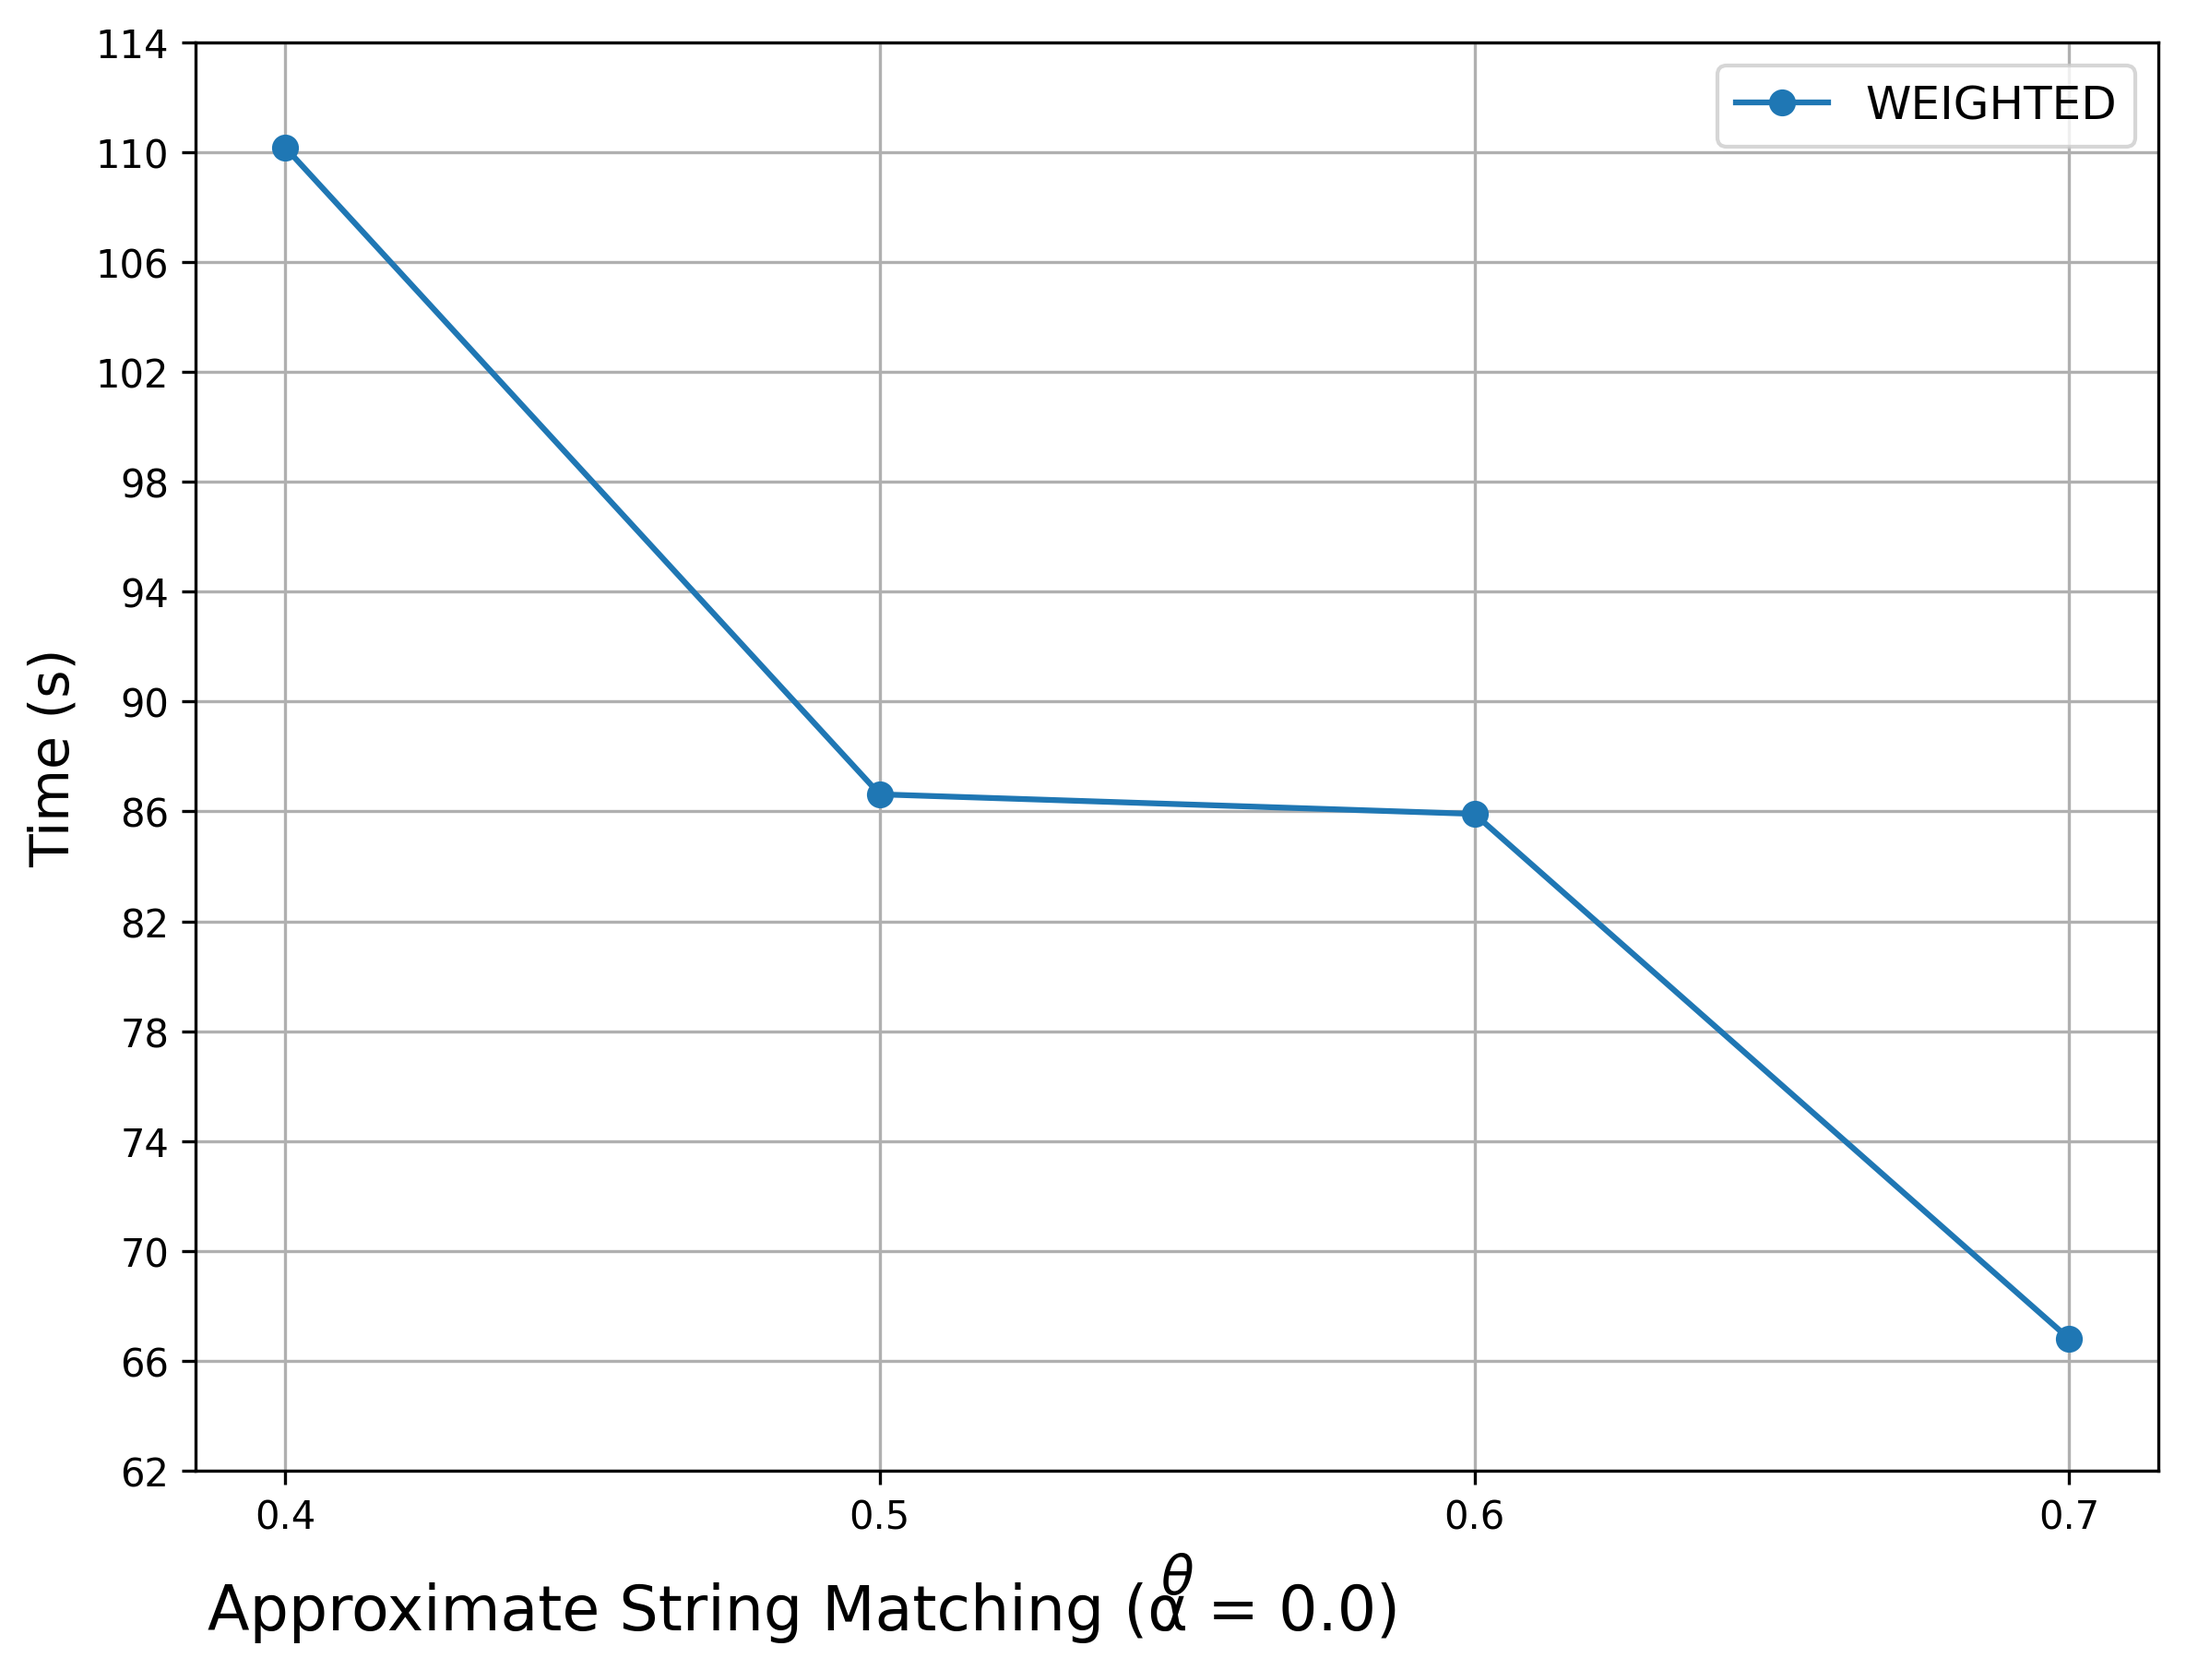
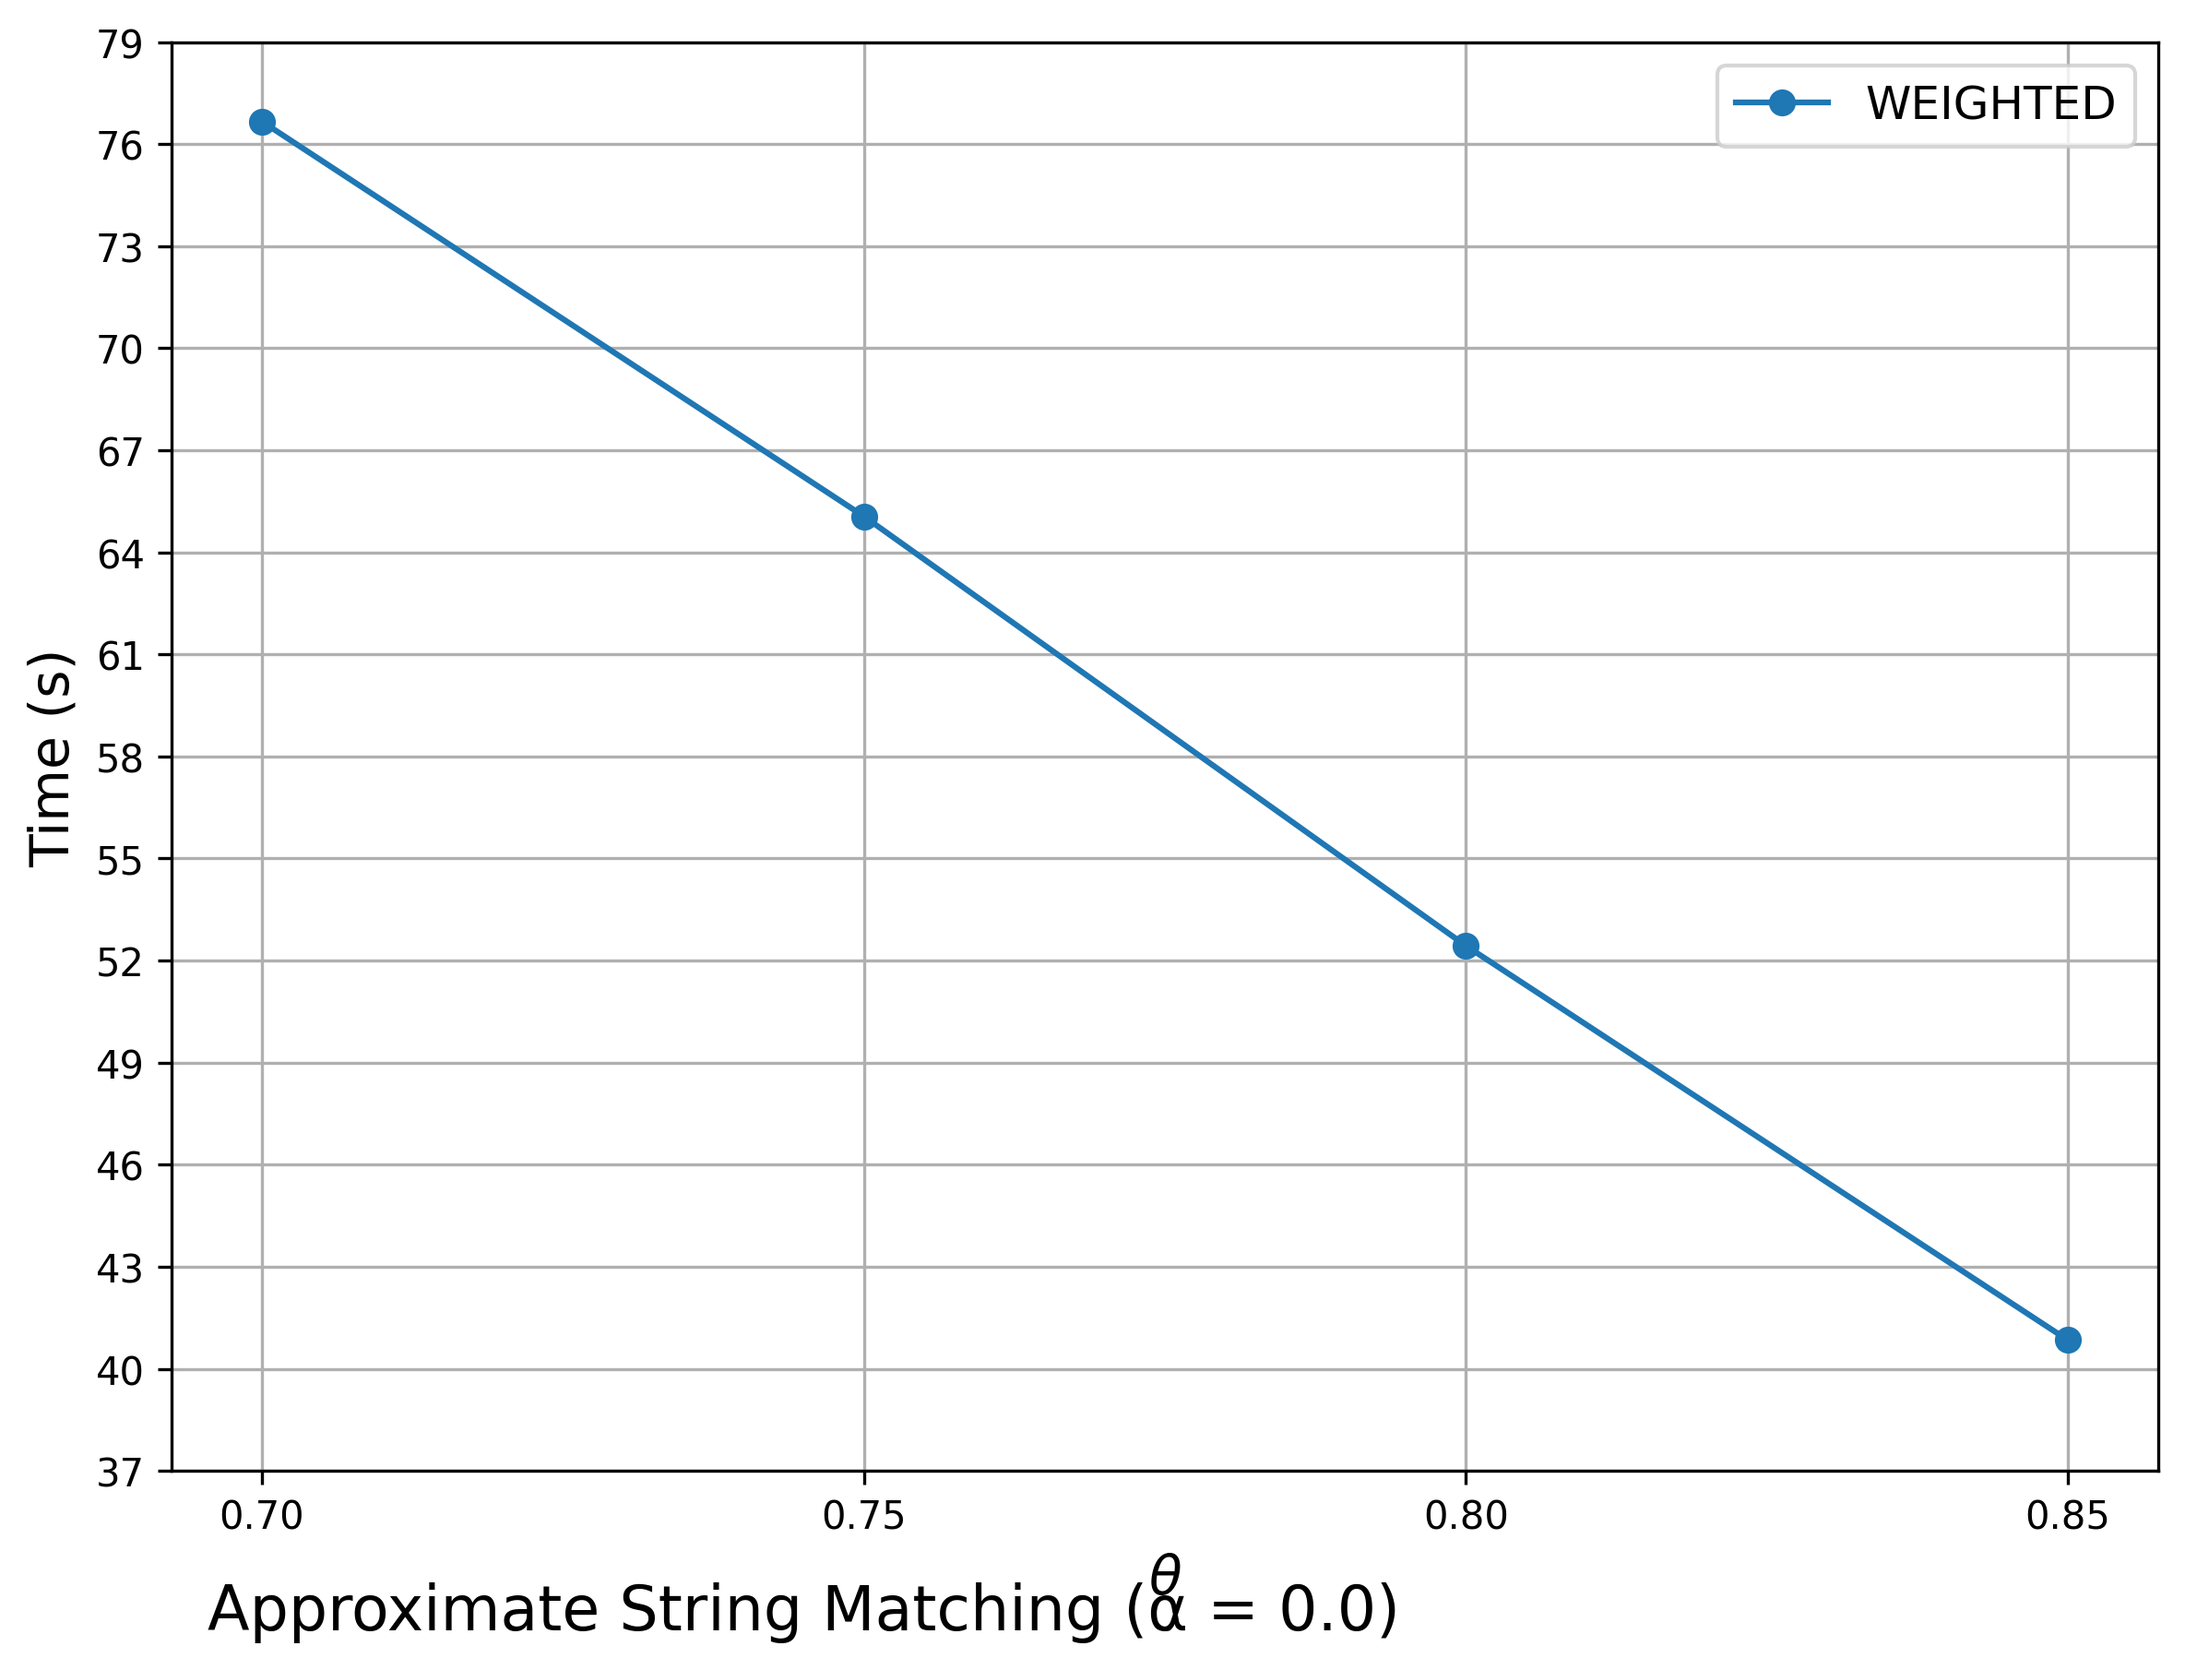
Updated discovery mode + dblp experiment

diff --git a/src/silkmoth/test/test_verifier.py b/src/silkmoth/test/test_verifier.py
@@ -33,42 +33,50 @@ class TestVerifier(unittest.TestCase):
     def test_jaccard_contain_exact(self):
         verifier = Verifier(1.0, contain, jaccard_similarity)
         result = verifier.get_related_sets(self.S1, {0, 1, 2, 3}, self.ii)
-        self.assertEqual(result, {0})
+        self.assertEqual(result, [(0, 1.0)])
 
     def test_jaccard_contain_any(self):
         verifier = Verifier(0.0, contain, jaccard_similarity)
         result = verifier.get_related_sets(self.S1, {0, 1, 2, 3}, self.ii)
-        self.assertEqual(result, {0, 1, 2, 3})
+        idxs = [i for i, _ in result]
+        self.assertEqual(set(idxs), {0, 1, 2, 3})
 
     def test_jaccard_contain_approximate(self):
         verifier = Verifier(0.7, contain, jaccard_similarity)
         result = verifier.get_related_sets(self.R, {0, 1, 2, 3}, self.ii)
-        self.assertEqual(result, {3})
+        i, sim = result[0]
+        self.assertEqual(len(result), 1)
+        self.assertEqual(i, 3)
+        self.assertGreaterEqual(sim, 0.7)
 
     def test_jaccard_not_contain_approximate(self):
         verifier = Verifier(0.8, contain, jaccard_similarity)
         result = verifier.get_related_sets(self.R, {0, 1, 2, 3}, self.ii)
-        self.assertEqual(result, set())
+        self.assertEqual(result, [])
 
     def test_jaccard_contain_exact_reduced(self):
         verifier = Verifier(1.0, contain, jaccard_similarity, reduction=True)
         result = verifier.get_related_sets(self.S1, {0, 1, 2, 3}, self.ii)
-        self.assertEqual(result, {0})
+        self.assertEqual(result, [(0, 1.0)])
 
     def test_jaccard_contain_any_reduced(self):
         verifier = Verifier(0.0, contain, jaccard_similarity, reduction=True)
         result = verifier.get_related_sets(self.S1, {0, 1, 2, 3}, self.ii)
-        self.assertEqual(result, {0, 1, 2, 3})
+        idxs = [i for i, _ in result]
+        self.assertEqual(set(idxs), {0, 1, 2, 3})
 
     def test_jaccard_contain_approximate_reduced(self):
         verifier = Verifier(0.7, contain, jaccard_similarity, reduction=True)
         result = verifier.get_related_sets(self.R, {0, 1, 2, 3}, self.ii)
-        self.assertEqual(result, {3})
+        i, sim = result[0]
+        self.assertEqual(len(result), 1)
+        self.assertEqual(i, 3)
+        self.assertGreaterEqual(sim, 0.7)
 
     def test_jaccard_not_contain_approximate_reduced(self):
         verifier = Verifier(0.8, contain, jaccard_similarity, reduction=True)
         result = verifier.get_related_sets(self.R, {0, 1, 2, 3}, self.ii)
-        self.assertEqual(result, set())
+        self.assertEqual(result, [])
 
     def test_reduce_nothing(self):
         r_reduced, s_reduced, count = _reduce(self.R, self.S1)

diff --git a/src/silkmoth/verifier.py b/src/silkmoth/verifier.py
@@ -69,9 +69,9 @@ class Verifier:
     
 
 
-    def _verify(self, reference_set, source_set) -> bool:
+    def _get_relatedness(self, reference_set, source_set) -> float:
         """
-        Checks if two sets are related or not by computing the maximum weighted
+        Gives the relatedness score by computing the maximum weighted
         bipartite matching.
 
         Args:
@@ -79,7 +79,7 @@ class Verifier:
             source_set: Tokenized source set S
 
         Returns:
-            bool: True if relatedness threshold is reached, False otherwise
+            float: Relatedness score of R and S
         """
         r_size = len(reference_set)
         s_size = len(source_set)
@@ -89,7 +89,7 @@ class Verifier:
 
         mm_score = self._get_mm_score(reference_set, source_set) + exact_matches
         relatedness = self.sim_metric(r_size, s_size, mm_score)
-        return relatedness >= self.related_thresh
+        return relatedness
 
 
     def get_related_sets(self, reference_set: list, candidates: set, inverted_index: InvertedIndex) -> list:
@@ -102,11 +102,13 @@ class Verifier:
             inverted_index (InvertedIndex): Inverted index instance
 
         Returns:
-            set: Indices of all related sets from the candidates
+            list: Pairs of indices of all related sets from the candidates and 
+            their relatedness with the reference set.
         """
-        related_sets = set()
+        related_sets = []
         for c in candidates:
             source_set = inverted_index.get_set(c)
-            if self._verify(reference_set, source_set):
-                related_sets.add(c)
+            relatedness = self._get_relatedness(reference_set, source_set)
+            if relatedness >= self.related_thresh:
+                related_sets.append((c, relatedness))
         return related_sets

diff --git a/experiments/experiments.py b/experiments/experiments.py
@@ -71,12 +71,13 @@ class Experiments:
         
         # Load titles
         titles = self.data_loader.load_dblp_titles(data_path)
+        titles = [title.split() for title in titles]
 
         # Reduce/adjust dataset size for testing
-        titles = titles[:1000]  
+        titles = titles[:4000]  
 
         #related_thresholds can be adjusted to [0.7, 0.75, 0.8, 0.85]
-        related_thresholds = [0.7] # larger data size returns better and more results for 0.7 to 0.85 
+        related_thresholds = [0.7, 0.75, 0.8, 0.85] # larger data size returns better and more results for 0.7 to 0.85 
 
         elapsed_times = []
 
@@ -96,12 +97,12 @@ class Experiments:
 
             # Using discovery mode
             related_pairs = engine.discover_sets(titles)
+            end_time = time.time()
             print(f"\nFound {len(related_pairs)} related pairs.")
 
-            for i, j, sim in related_pairs:
-                print(f"[{sim:.3f}] {i}: {titles[i]}  ↔  {j}: {titles[j]}")
+            #for i, j, sim in related_pairs:
+            #    print(f"[{sim:.3f}] {i}: {titles[i]}  ↔  {j}: {titles[j]}")
 
-            end_time = time.time()
             elapsed = end_time - start_time
             elapsed_times.append(elapsed)
             print(f"δ = {threshold} → Elapsed time: {elapsed:.2f}s")
@@ -111,7 +112,7 @@ class Experiments:
             elapsed_times=elapsed_times,
             fig_text="Approximate String Matching (α = 0.0)",
             legend_label="WEIGHTED",
-            file_name="dblp_string_matching_experiment_2.png"
+            file_name="dblp_string_matching_experiment.png"
     )
 
 

diff --git a/src/silkmoth/silkmoth_engine.py b/src/silkmoth/silkmoth_engine.py
@@ -4,6 +4,7 @@ from .tokenizer import *
 from .signature_generator import *
 from .candidate_selector import *
 from .verifier import *
+import sys
 
 class SilkMothEngine:
     
@@ -43,19 +44,7 @@ class SilkMothEngine:
         related_pairs = []
 
         for i, reference_set in enumerate(reference_sets):
-            r_tokens = self.tokenizer.tokenize(reference_set)
-            signature = self.signature_gen.get_signature(r_tokens, self.inverted_index, self.related_thresh)
-            candidates = self.candidate_selector.get_candidates(signature, self.inverted_index, len(r_tokens))
-            filtered_candidates = self.candidate_selector.check_filter(
-                r_tokens, set(signature), candidates, self.inverted_index
-            )
-
-            for j in filtered_candidates:
-                if j > i:
-                    s_tokens = self.inverted_index.get_set(j)
-                    mm_score = self.verifier._get_mm_score(r_tokens, s_tokens)
-                    sim = self.sim_metric(len(r_tokens), len(s_tokens), mm_score)
-                    if sim >= self.related_thresh:
-                        related_pairs.append((i, j, sim))
+            sets = self.search_sets(reference_set)
+            related_pairs.extend([(i, j, sim) for j, sim in sets])
 
         return related_pairs

diff --git a/src/silkmoth/test/test_engine.py b/src/silkmoth/test/test_engine.py
@@ -34,7 +34,10 @@ class TestEngine(unittest.TestCase):
     def test_pipeline_running_base_example(self):
         engine = SilkMothEngine(0.7, self.S, contain, jaccard_similarity)
         search_results = engine.search_sets(self.R)
-        self.assertEqual(search_results, {3})
+        self.assertEqual(len(search_results), 1)
+        i, sim = search_results[0]
+        self.assertEqual(i, 3)
+        self.assertGreaterEqual(sim, 0.7)
 
 if __name__ == '__main__':
     unittest.main()
